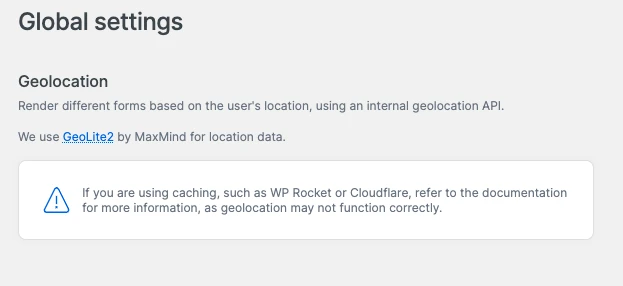
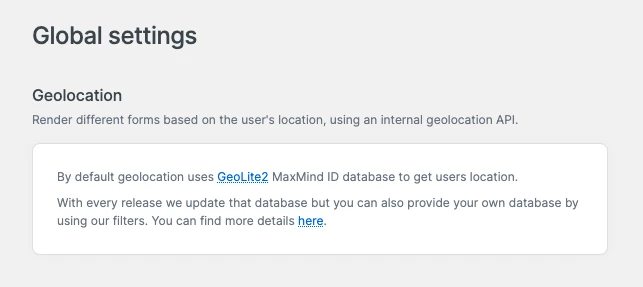
fixing images for features

Changed region(s): [[0.061, 0.5594, 0.9454, 0.8392], [0.0305, 0.2517, 0.8234, 0.5035], [0.0305, 0.028, 0.305, 0.1678]]

diff --git a/website/sidebars-forms.js b/website/sidebars-forms.js
@@ -11,8 +11,7 @@ module.exports = {
 						'features/enrichment',
 						'features/geolocation',
 						'features/validation',
-						'features/multiflow-forms',
-						'features/multistep-forms',
+						'features/multisteps-forms',
 						'features/spam-prevention',
 						'features/success-redirect',
 						'features/tracking',

diff --git a/website/forms/features/conditional-tags.md b/website/forms/features/conditional-tags.md
@@ -3,4 +3,32 @@ id: conditional-tags
 title: Conditional tags
 ---
 
-*Coming soon*
+Conditional tags are a useful tool that enables you to display or hide form fields based on various conditions.
+
+To utilize this feature, navigate to the form builder and select the desired field. You will find the conditional tags section in the block options.
+
+![Conditional tags screen](/img/forms/conditional-tags.webp)
+
+## How to use
+
+To begin, you must choose whether you want the field to be visible or hidden by default. If you select the field to be hidden by default, it will remain hidden until the specified conditions are met. Similarly, if you choose the field to be visible by default, it will be displayed until the conditions are met.
+
+Then, you need to add exception rules to create conditions. You can choose between using `OR` or `AND` conditions, which can be combined to create complex conditions.
+
+:::tip
+In order to add a conditional tag to a field, the field must have a name attribute.
+:::
+
+:::caution
+If you change the name of a field, you must save the form and update any conditional tags.
+:::
+
+## Inner fields
+
+When you include a rule that includes a `checkbox`, `radio`, or `select` field, you have the option to check if the field is `checked` or `unchecked`, or if it has a specific `value`.
+
+To do this, you can add conditional tags to the entire field or each option/field within by selecting that option and providing the necessary rules.
+
+:::note
+For example, if you hide all inner options of the `select` field, the entire field will be hidden, and vice versa.
+:::

diff --git a/website/forms/features/multisteps-forms.md b/website/forms/features/multisteps-forms.md
@@ -1,0 +1,11 @@
+---
+id: multisteps-forms
+title: Multi-steps forms
+---
+
+*Coming soon*
+
+![Multi-steps screen](/img/forms/multisteps.webp)
+![Multi-steps options screen](/img/forms/multisteps-options.webp)
+![Multi-steps flow screen](/img/forms/multisteps-flow.webp)
+![Multi-steps preview screen](/img/forms/multisteps-preview.webp)

diff --git a/website/forms/features/enrichment.md b/website/forms/features/enrichment.md
@@ -4,3 +4,9 @@ title: Enrichment
 ---
 
 *Coming soon*
+
+![Enrichment screen](/img/forms/enrichment.webp)
+
+![Enrichment map screen](/img/forms/enrichment-map.webp)
+
+![Enrichment params screen](/img/forms/enrichment-params.webp)

diff --git a/website/forms/features/success-redirect.md b/website/forms/features/success-redirect.md
@@ -4,3 +4,6 @@ title: Success redirects
 ---
 
 *Coming soon*
+
+![Success redirects screen](/img/forms/success-redirects.webp)
+![Success redirects settings screen](/img/forms/success-redirects-settings.webp)

diff --git a/website/forms/features/import-export.md b/website/forms/features/import-export.md
@@ -4,3 +4,7 @@ title: Import/Export
 ---
 
 *Coming soon*
+
+![Import screen](/img/forms/import.webp)
+![Import manual screen](/img/forms/import-manual.webp)
+![Export screen](/img/forms/export.webp)

diff --git a/website/forms/features/spam-prevention.md b/website/forms/features/spam-prevention.md
@@ -4,3 +4,6 @@ title: Spam prevention
 ---
 
 *Coming soon*
+
+![Spam prevention screen](/img/forms/spam.webp)
+![Spam prevention advanced screen](/img/forms/spam-advanced.webp)

diff --git a/website/forms/features/geolocation.md b/website/forms/features/geolocation.md
@@ -4,3 +4,5 @@ title: Geolocation
 ---
 
 *Coming soon*
+
+![Geolocation screen](/img/forms/geolocation.webp)

diff --git a/website/forms/features/tracking.md b/website/forms/features/tracking.md
@@ -4,3 +4,5 @@ title: Tracking
 ---
 
 *Coming soon*
+
+![Tracking screen](/img/forms/tracking.webp)
